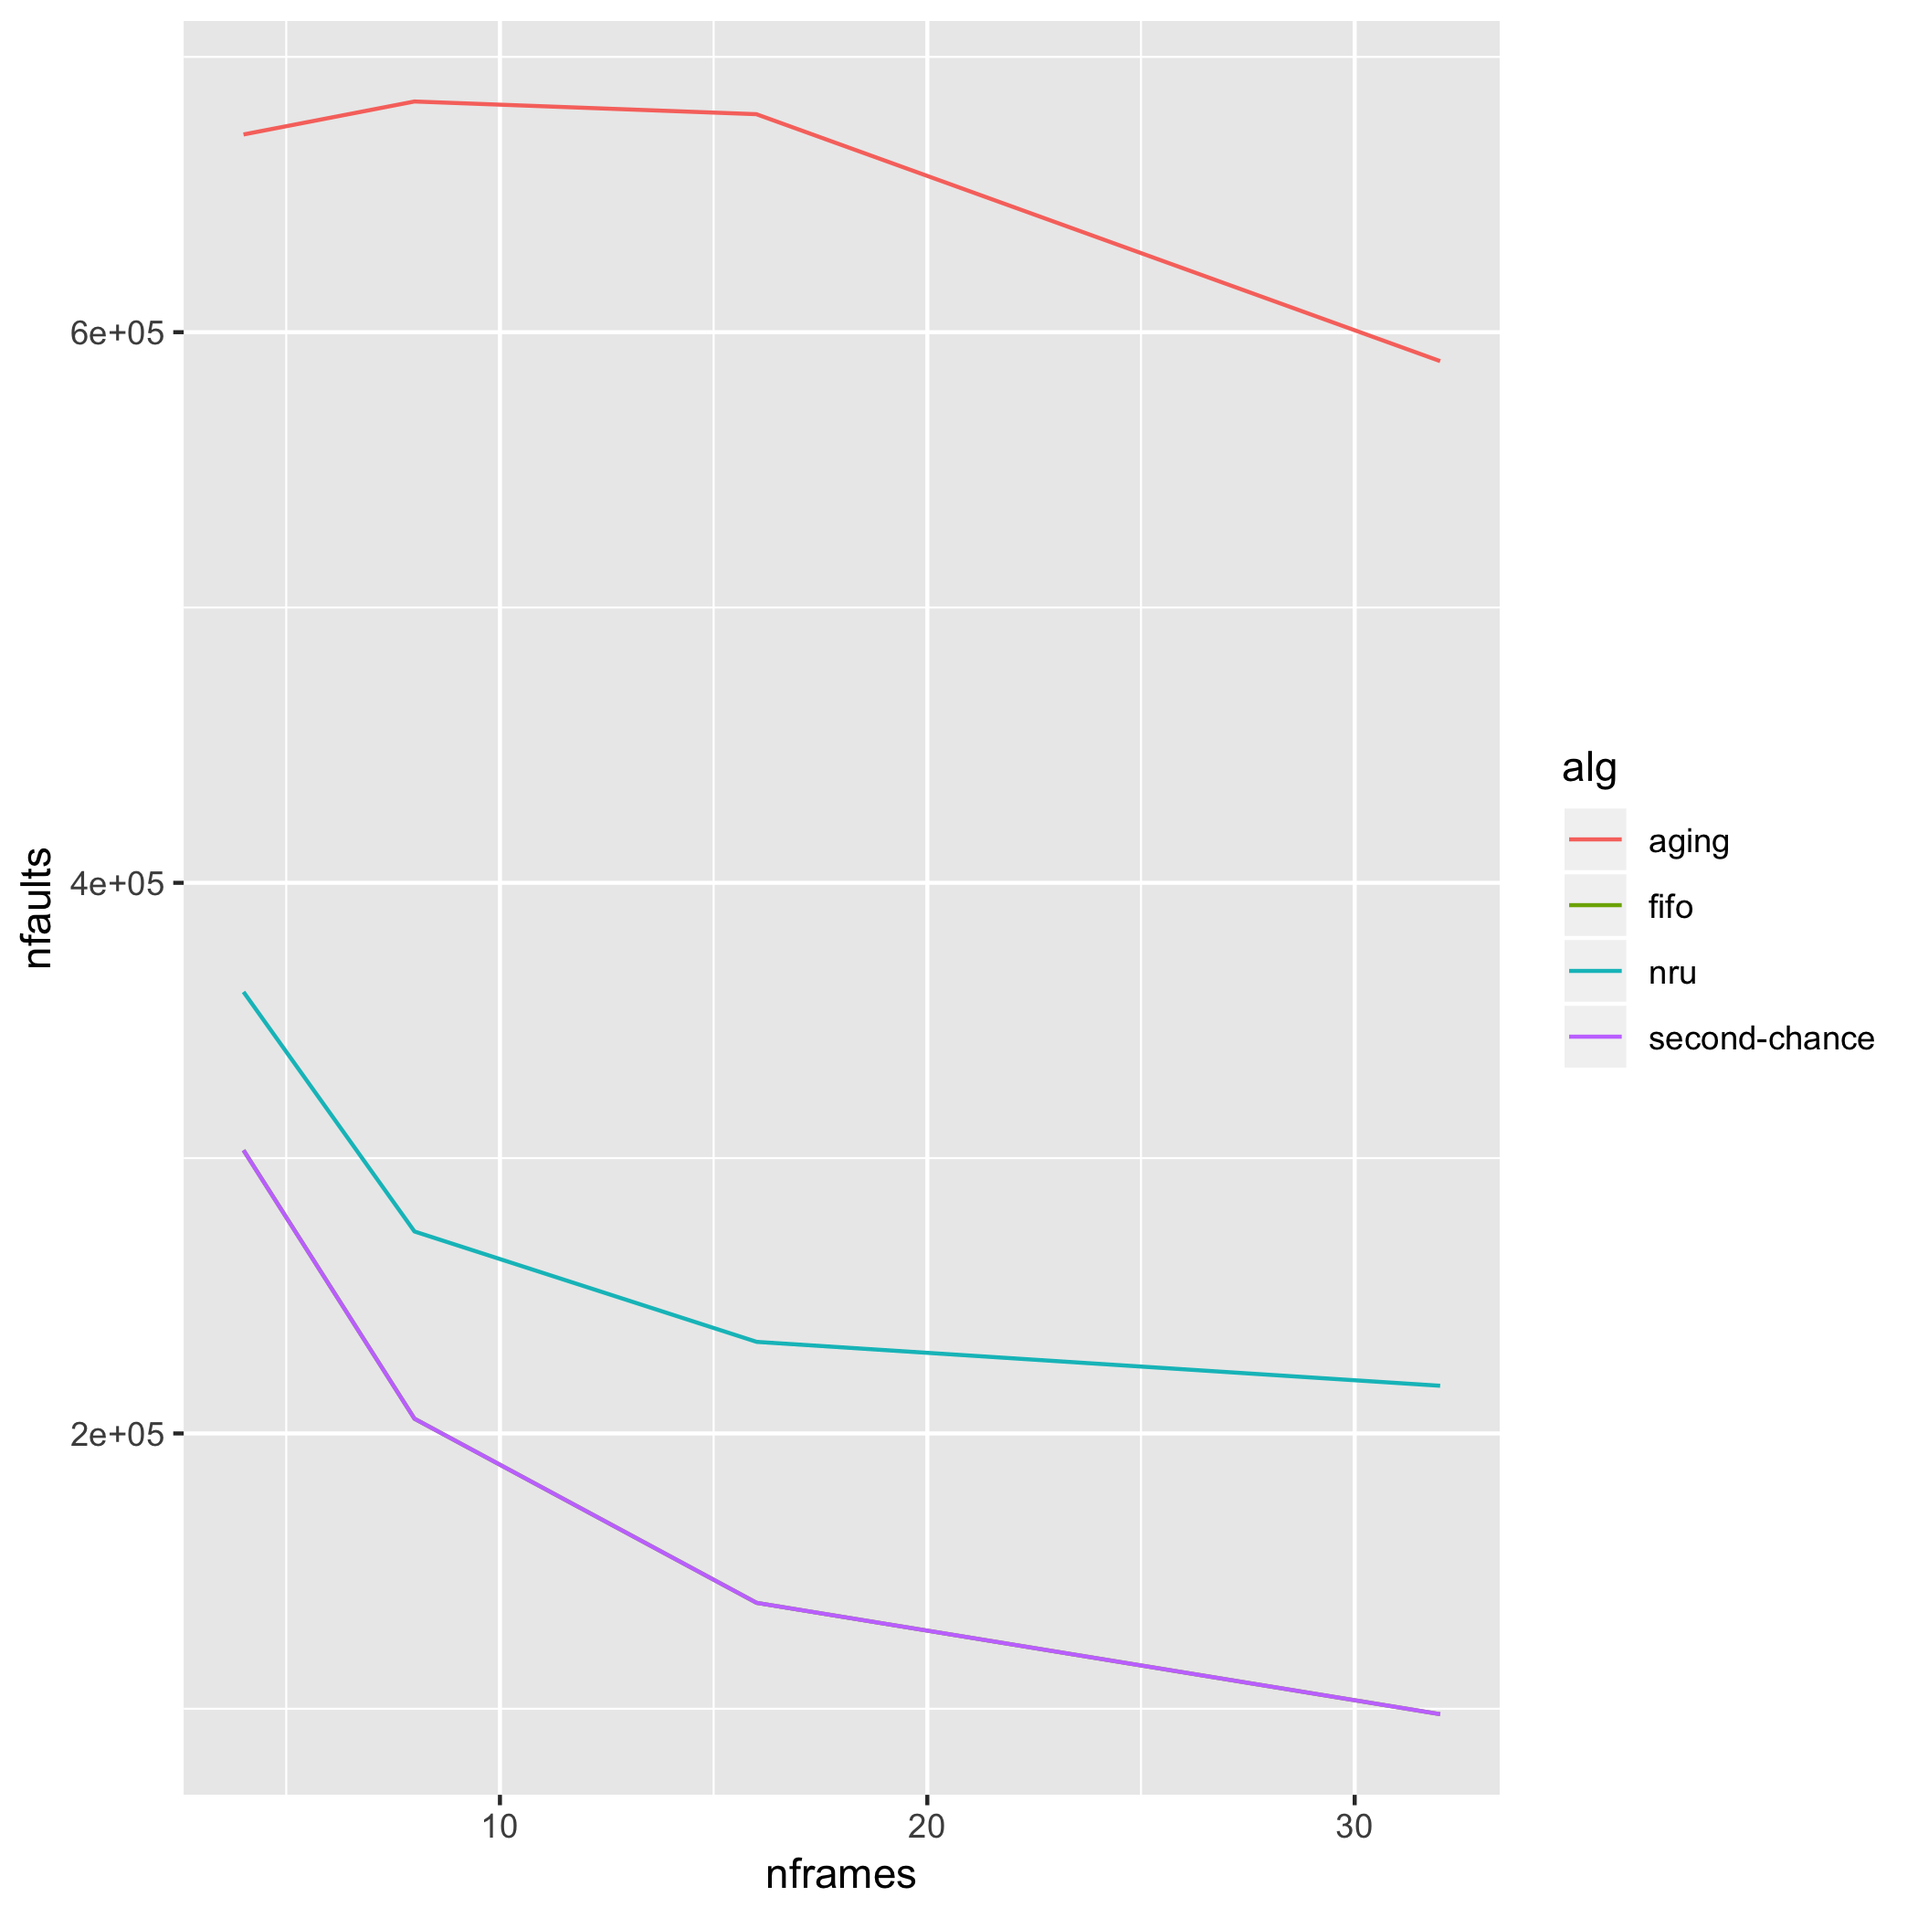
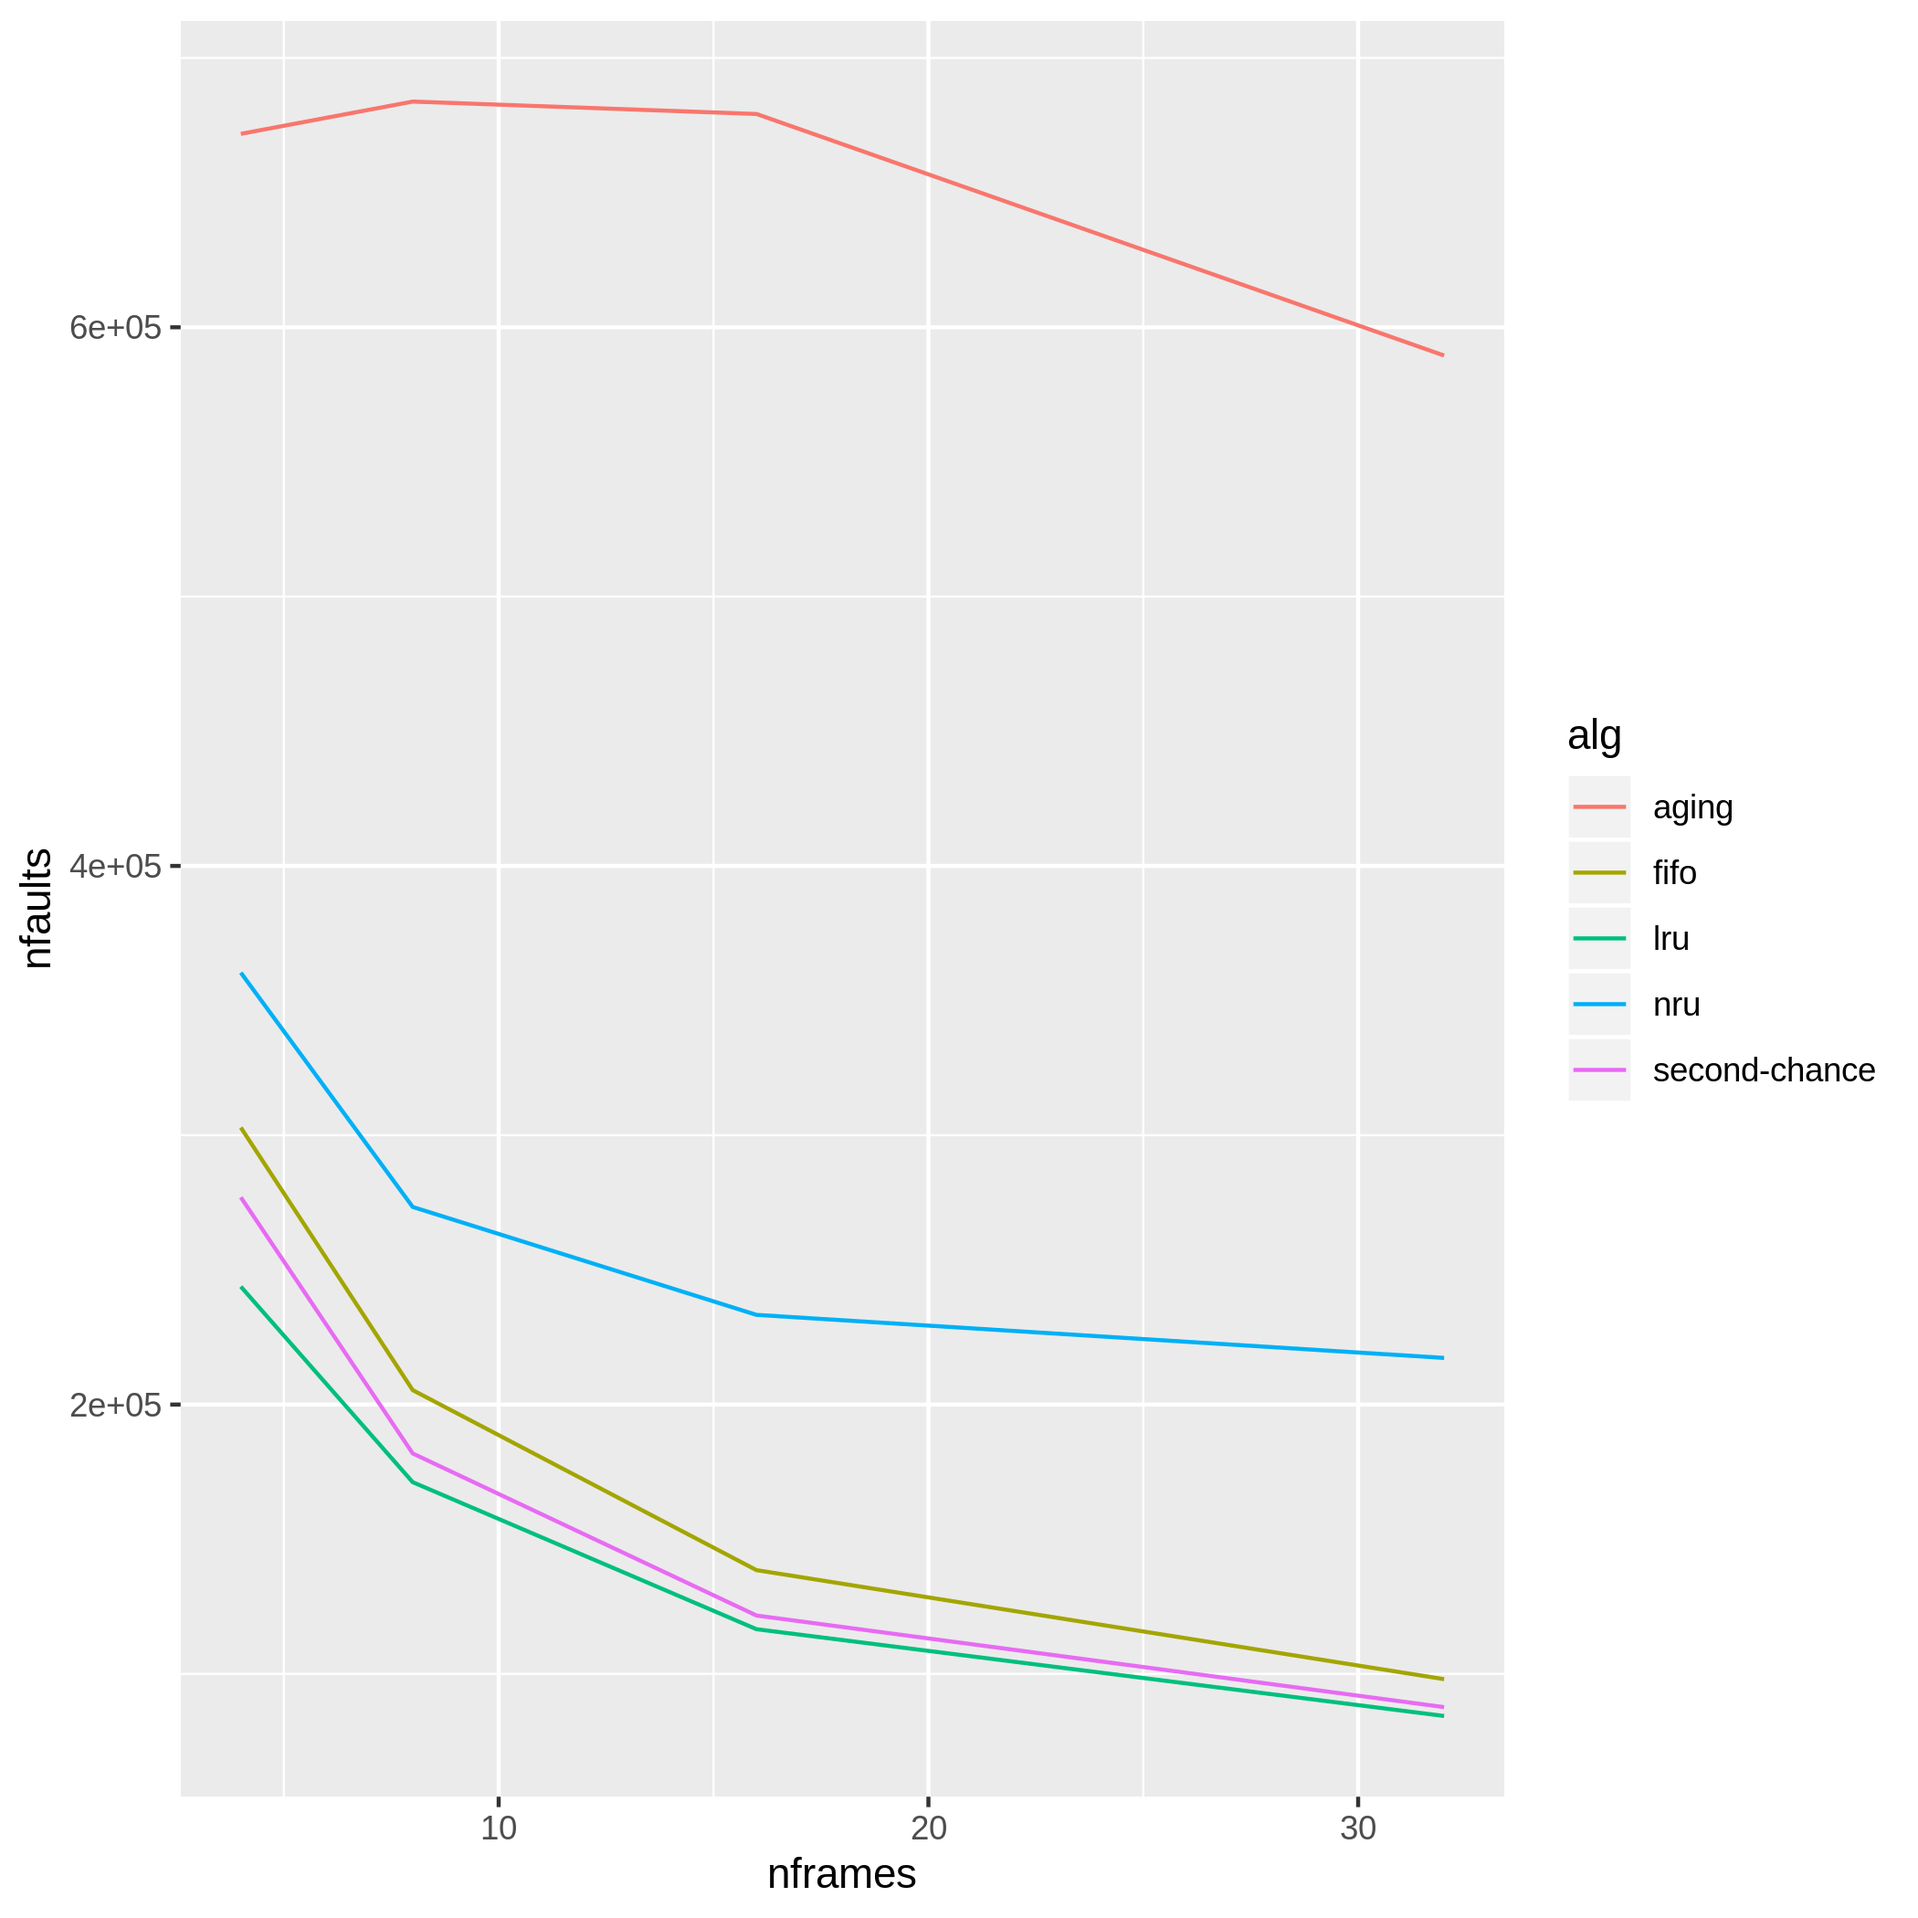
ACABOU

diff --git a/lab_mem/page_replacement/python/phymem.py b/lab_mem/page_replacement/python/phymem.py
@@ -12,7 +12,7 @@ class PhysicalMemory(object):
   """How many bits to use for the Aging algorithm"""
 
   def __init__(self, algorithm):
-    assert algorithm in {"fifo", "nru", "aging", "second-chance"}
+    assert algorithm in {"fifo", "nru", "lru", "aging", "second-chance"}
     self.algorithm = algorithm
 
   def put(self, frameId):
@@ -95,17 +95,12 @@ class NRU(PhysicalMemory):
         break
     self.frames[index]= (frameId, True, isWrite, prioridade)
 
-
-    
-  
 class LRU(PhysicalMemory):
   def __init__(self):
     super(LRU, self).__init__("lru")
     self.lista = []
   
   def put(self, frameId):
-    if frameId in self.lista:
-      self.lista.remove(frameId)
     self.lista.append(frameId)
 
   def evict(self):
@@ -115,8 +110,9 @@ class LRU(PhysicalMemory):
     pass
 
   def access(self, frameId, isWrite):
-    pass
-  
+    if frameId in self.lista:
+      self.lista.remove(frameId)
+    self.lista.append(frameId)
 
 class Aging(PhysicalMemory):
   def __init__(self):
@@ -167,5 +163,5 @@ class SecondChance(PhysicalMemory):
     pass
 
   def access(self, frameId, isWrite):
-    pass
+    self.second_chance[frameId] = 0
 

diff --git a/lab_mem/page_replacement/python/memsym.py b/lab_mem/page_replacement/python/memsym.py
@@ -62,6 +62,7 @@ if __name__ == "__main__":
     mapNameToClass = {
         "fifo": FIFO,
         "nru": NRU,
+        "lru": LRU,
         "aging": Aging,
         "second-chance": SecondChance
     }
